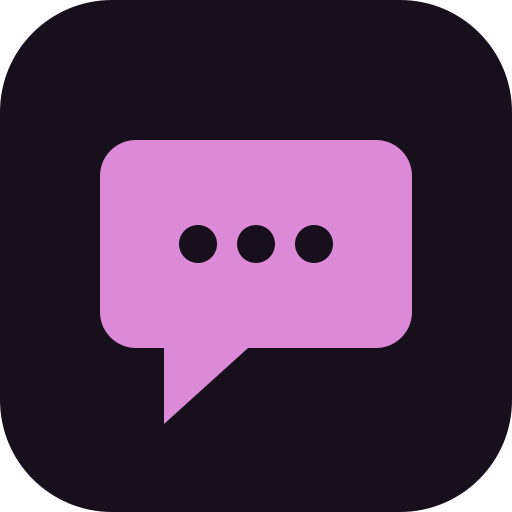
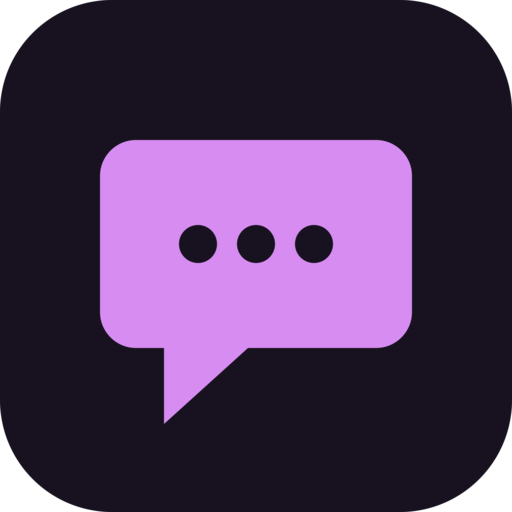
Repaint the built-in themes with the new palette values
Every theme now carries the revised surfaces, text, accents, errors, code
blocks and explicit border colours, so the store table and stylesheet stay
in step and borders no longer depend on per-theme colour mixes. Brand assets
follow the new plum accent.

Generated with Codebuff 🤖

diff --git a/src/index.css b/src/index.css
@@ -221,15 +221,15 @@ html[data-codewrap] .md pre code { white-space: pre-wrap; overflow-wrap: anywher
 html[data-codewrap] .code-lines .code-line > code { flex: 1 1 auto; min-width: 0; white-space: pre-wrap; overflow-wrap: anywhere; }
 
 /* c2..c5 are the syntax colors for strings, numbers, titles and types in each theme */
-[data-t=plum] { color-scheme: dark; --bg:#17101c; --side:#26192d; --surf:#2f2636; --hov:#3d3148; --tx:#f3eaf7; --mu:#a893b4; --ac:#dc8ad8; --acx:#1b1020; --er:#e46a6a; --code:#100b15; --codeh:#2f2040; --c2:#9fe3c5; --c3:#f2b98b; --c4:#8fb9ff; --c5:#c7a6ff }
-[data-t=claude] { color-scheme: dark; --bg:#181817; --side:#242423; --surf:#2e2e2d; --hov:#3a3938; --tx:#ece7db; --mu:#a09891; --ac:#d97757; --acx:#121211; --er:#e46a6a; --code:#111110; --codeh:#121211; --c2:#7ec699; --c3:#f4a58a; --c4:#7cace8; --c5:#e8c47c }
-[data-t=obsidian] { color-scheme: dark; --bg:#0f141c; --side:#171d28; --surf:#222a38; --hov:#2a3648; --tx:#e1e7ed; --mu:#8494a3; --ac:#2dd4bf; --acx:#0b1e1c; --er:#e46a6a; --code:#0a0d12; --codeh:#131a24; --c2:#34d399; --c3:#fbbf24; --c4:#38bdf8; --c5:#c084fc }
-[data-t=graphite] { color-scheme: dark; --bg:#0c0c0c; --side:#181818; --surf:#212121; --hov:#2d2d2d; --tx:#eaeaea; --mu:#909090; --ac:#c0c0c0; --acx:#131313; --er:#e46a6a; --code:#0c0c0c; --codeh:#171717; --c2:#a3e635; --c3:#fb923c; --c4:#facc15; --c5:#e879f9 }
-[data-t=paper] { color-scheme: light; --bg:#f0f0ee; --side:#fbfbf9; --surf:#ffffff; --hov:#e4e4dc; --tx:#1d1d1b; --mu:#6c6c63; --ac:#3b5bdb; --acx:#ffffff; --er:#b63b3b; --code:#e6e5dd; --codeh:#d3d2c6; --c2:#2b8a3e; --c3:#d9480f; --c4:#7048e8; --c5:#0b7285 }
-[data-t=sage] { color-scheme: light; --bg:#e9ecea; --side:#f4f7f5; --surf:#ffffff; --hov:#d6e2db; --tx:#1c2826; --mu:#5a6c69; --ac:#0d9488; --acx:#ffffff; --er:#c0425d; --code:#eaefea; --codeh:#dfe6e0; --c2:#15803d; --c3:#c2410c; --c4:#0284c7; --c5:#7e22ce }
-[data-t=frost] { color-scheme: light; --bg:#edeff1; --side:#f8fafc; --surf:#ffffff; --hov:#e2e8f0; --tx:#0f172a; --mu:#5e6d83; --ac:#2563eb; --acx:#ffffff; --er:#c0425d; --code:#f1f5f9; --codeh:#e2e8f0; --c2:#16a34a; --c3:#ea580c; --c4:#0369a1; --c5:#9333ea }
-[data-t=sunset] { color-scheme: light; --bg:#efeae5; --side:#faf5f0; --surf:#ffffff; --hov:#e4d5c7; --tx:#3b2c24; --mu:#756358; --ac:#ea580c; --acx:#ffffff; --er:#c1453b; --code:#f3eae1; --codeh:#e7dad0; --c2:#3f6212; --c3:#b45309; --c4:#1d4ed8; --c5:#a21caf }
-[data-t=custom] { color-scheme: dark; --bg:#17101c; --side:#231c27; --surf:#2f2636; --hov:#3d3148; --tx:#f3eaf7; --mu:#a893b4; --ac:#dc8ad8; --acx:#1b1020; --er:#f95353; --code:#100b15; --codeh:#2f2040; --c2:#9fe3c5; --c3:#f2b98b; --c4:#8fb9ff; --c5:#c7a6ff }
+[data-t=plum] { color-scheme: dark; --bg:#181220; --side:#211829; --surf:#2b2035; --hov:#382b45; --tx:#f4ecf8; --mu:#b2a0c0; --ac:#d68cf0; --acx:#1a0f22; --er:#f2777a; --code:#120c18; --codeh:#261b30; --bor:#4a3b58; --c2:#9fe3c5; --c3:#f2b98b; --c4:#8fb9ff; --c5:#c7a6ff }
+[data-t=claude] { color-scheme: dark; --bg:#1c1b19; --side:#252320; --surf:#2f2d29; --hov:#3b3833; --tx:#f0ebe0; --mu:#a8a095; --ac:#da7756; --acx:#1a1210; --er:#ef6b6b; --code:#151412; --codeh:#24221f; --bor:#3f3b35; --c2:#7ec699; --c3:#f4a58a; --c4:#7cace8; --c5:#e8c47c }
+[data-t=obsidian] { color-scheme: dark; --bg:#0e131b; --side:#151c27; --surf:#1d2634; --hov:#283347; --tx:#e6ecf3; --mu:#8a9bb0; --ac:#2dd4bf; --acx:#06201d; --er:#f2706f; --code:#0a0e14; --codeh:#172030; --bor:#2c3a4d; --c2:#34d399; --c3:#fbbf24; --c4:#38bdf8; --c5:#c084fc }
+[data-t=graphite] { color-scheme: dark; --bg:#0e0e0f; --side:#161617; --surf:#1f1f21; --hov:#2b2b2e; --tx:#ececee; --mu:#98989f; --ac:#cfd3dc; --acx:#111113; --er:#f06b6b; --code:#09090a; --codeh:#19191b; --bor:#34343a; --c2:#a3e635; --c3:#fb923c; --c4:#facc15; --c5:#e879f9 }
+[data-t=paper] { color-scheme: light; --bg:#f1f0ec; --side:#faf9f6; --surf:#ffffff; --hov:#e6e4dc; --tx:#1c1b18; --mu:#66645b; --ac:#3b5bdb; --acx:#ffffff; --er:#c0392b; --code:#e8e6df; --codeh:#dbd8ce; --bor:#d2cfc5; --c2:#2b8a3e; --c3:#d9480f; --c4:#7048e8; --c5:#0b7285 }
+[data-t=sage] { color-scheme: light; --bg:#e8eeea; --side:#f3f7f4; --surf:#ffffff; --hov:#d8e5dd; --tx:#15231f; --mu:#536863; --ac:#0f766e; --acx:#ffffff; --er:#be3455; --code:#e3ebe5; --codeh:#d3dfd7; --bor:#c3d1ca; --c2:#15803d; --c3:#c2410c; --c4:#0284c7; --c5:#7e22ce }
+[data-t=frost] { color-scheme: light; --bg:#eceff4; --side:#f6f8fb; --surf:#ffffff; --hov:#dfe5ee; --tx:#0f172a; --mu:#56657c; --ac:#2563eb; --acx:#ffffff; --er:#c8333f; --code:#e4e9f1; --codeh:#d4dbe8; --bor:#cbd3e0; --c2:#16a34a; --c3:#ea580c; --c4:#0369a1; --c5:#9333ea }
+[data-t=sunset] { color-scheme: light; --bg:#f4ede6; --side:#fbf7f2; --surf:#ffffff; --hov:#ead9ca; --tx:#35261e; --mu:#6f5b4c; --ac:#c2410c; --acx:#ffffff; --er:#b91c1c; --code:#eee3d8; --codeh:#e2d3c4; --bor:#dccbbb; --c2:#3f6212; --c3:#b45309; --c4:#1d4ed8; --c5:#a21caf }
+[data-t=custom] { color-scheme: dark; --bg:#181220; --side:#221a2b; --surf:#2e2737; --hov:#3c3545; --tx:#f4ecf8; --mu:#a19aa7; --ac:#d68cf0; --acx:#101010; --er:#e26965; --code:#0c0812; --codeh:#130c1c; --bor:#4f4857; --c2:#79d8ca; --c3:#bcd879; --c4:#7990d8; --c5:#bc79d8 }
 /* Pre-paint fallback: a neutral surface, never a branded theme, so a slow boot
  * cannot flash plum before the saved appearance is applied. */
 [data-t=neutral] { color-scheme: dark; --bg:#181818; --side:#242424; --surf:#2a2a2a; --hov:#313131; --tx:#eaeaea; --mu:#a0a0a0; --ac:#c0c0c0; --acx:#131313; --er:#e46a6a; --code:#111111; --codeh:#1a1a1a; --c2:#9fe3c5; --c3:#f2b98b; --c4:#8fb9ff; --c5:#c7a6ff }
@@ -385,15 +385,9 @@ html[data-codewrap] .code-lines .code-line > code { flex: 1 1 auto; min-width: 0
 .composer-shell:focus-within,
 .composer-shell[data-lit] { border-color: var(--bor); }
 
-/* Plum and Obsidian have bright muted tones, which makes the default mix read
-   as a drawn line. Lean further toward each theme's surface colour so the
-   hairline stays a whisper instead of a wire. */
-[data-t=plum] { --bor: color-mix(in srgb, var(--hov) 93%, var(--mu)); --edge: var(--bor); }
-[data-t=obsidian] { --bor: color-mix(in srgb, var(--hov) 93%, var(--mu)); --edge: var(--bor); }
-/* Claude keeps a flatter, warmer hairline: the default mix reads a touch bright
-   against its dark background, so it is pinned to the weight of the composer's
-   own focused outline instead of following --mu. */
-[data-t=claude] { --bor:#34312d; --edge: var(--bor); }
+/* Each built-in palette declares its own --bor above; the mix below is only
+   the fallback for surfaces that do not (neutral boot, generated custom themes
+   carry an explicit border too). */
 /* Only the dialog panel itself gets a hairline. A structural
    `[role="dialog"] > div` rule also framed every first-level div inside
    nested dialogs, which put borders on ordinary modal content. */

diff --git a/src/store.ts b/src/store.ts
@@ -225,14 +225,14 @@ export type ThemeColorKey = typeof THEME_COLOR_KEYS[number]
 export type ThemeColors = Record<ThemeColorKey, string> & { /** Derived border colour, emitted by customThemeColors. */ bor?: string }
 export const THEME_COLOR_LABELS: Record<ThemeColorKey, string> = { bg: 'Main background', side: 'Sidebar', surf: 'Panel surface', hov: 'Hover and selection', tx: 'Main text', mu: 'Muted text', ac: 'Accent', acx: 'Text on accent', er: 'Error', code: 'Code block', codeh: 'Code block header', c2: 'Syntax: strings', c3: 'Syntax: numbers', c4: 'Syntax: titles', c5: 'Syntax: types' }
 export const THEME_COLORS: Record<string, ThemeColors> = {
-  plum: { bg: '#17101c', side: '#26192d', surf: '#2f2636', hov: '#3d3148', tx: '#f3eaf7', mu: '#a893b4', ac: '#dc8ad8', acx: '#1b1020', er: '#e46a6a', code: '#100b15', codeh: '#2f2040', c2: '#9fe3c5', c3: '#f2b98b', c4: '#8fb9ff', c5: '#c7a6ff' },
-  claude: { bg: '#181817', side: '#242423', surf: '#2e2e2d', hov: '#3a3938', tx: '#ece7db', mu: '#a09891', ac: '#d97757', acx: '#121211', er: '#e46a6a', code: '#111110', codeh: '#121211', c2: '#7ec699', c3: '#f4a58a', c4: '#7cace8', c5: '#e8c47c' },
-  obsidian: { bg: '#0f141c', side: '#171d28', surf: '#222a38', hov: '#2a3648', tx: '#e1e7ed', mu: '#8494a3', ac: '#2dd4bf', acx: '#0b1e1c', er: '#e46a6a', code: '#0a0d12', codeh: '#131a24', c2: '#34d399', c3: '#fbbf24', c4: '#38bdf8', c5: '#c084fc' },
-  graphite: { bg: '#0c0c0c', side: '#181818', surf: '#212121', hov: '#2d2d2d', tx: '#eaeaea', mu: '#909090', ac: '#c0c0c0', acx: '#131313', er: '#e46a6a', code: '#0c0c0c', codeh: '#171717', c2: '#a3e635', c3: '#fb923c', c4: '#facc15', c5: '#e879f9' },
-  paper: { bg: '#f0f0ee', side: '#fbfbf9', surf: '#ffffff', hov: '#e4e4dc', tx: '#1d1d1b', mu: '#6c6c63', ac: '#3b5bdb', acx: '#ffffff', er: '#b63b3b', code: '#e6e5dd', codeh: '#d3d2c6', c2: '#2b8a3e', c3: '#d9480f', c4: '#7048e8', c5: '#0b7285' },
-  sage: { bg: '#e9ecea', side: '#f4f7f5', surf: '#ffffff', hov: '#d6e2db', tx: '#1c2826', mu: '#5a6c69', ac: '#0d9488', acx: '#ffffff', er: '#c0425d', code: '#eaefea', codeh: '#dfe6e0', c2: '#15803d', c3: '#c2410c', c4: '#0284c7', c5: '#7e22ce' },
-  frost: { bg: '#edeff1', side: '#f8fafc', surf: '#ffffff', hov: '#e2e8f0', tx: '#0f172a', mu: '#5e6d83', ac: '#2563eb', acx: '#ffffff', er: '#c0425d', code: '#f1f5f9', codeh: '#e2e8f0', c2: '#16a34a', c3: '#ea580c', c4: '#0369a1', c5: '#9333ea' },
-  sunset: { bg: '#efeae5', side: '#faf5f0', surf: '#ffffff', hov: '#e4d5c7', tx: '#3b2c24', mu: '#756358', ac: '#ea580c', acx: '#ffffff', er: '#c1453b', code: '#f3eae1', codeh: '#e7dad0', c2: '#3f6212', c3: '#b45309', c4: '#1d4ed8', c5: '#a21caf' },
+  plum: { bg: '#181220', side: '#211829', surf: '#2b2035', hov: '#382b45', tx: '#f4ecf8', mu: '#b2a0c0', ac: '#d68cf0', acx: '#1a0f22', er: '#f2777a', code: '#120c18', codeh: '#261b30', c2: '#9fe3c5', c3: '#f2b98b', c4: '#8fb9ff', c5: '#c7a6ff', bor: '#4a3b58' },
+  claude: { bg: '#1c1b19', side: '#252320', surf: '#2f2d29', hov: '#3b3833', tx: '#f0ebe0', mu: '#a8a095', ac: '#da7756', acx: '#1a1210', er: '#ef6b6b', code: '#151412', codeh: '#24221f', c2: '#7ec699', c3: '#f4a58a', c4: '#7cace8', c5: '#e8c47c', bor: '#3f3b35' },
+  obsidian: { bg: '#0e131b', side: '#151c27', surf: '#1d2634', hov: '#283347', tx: '#e6ecf3', mu: '#8a9bb0', ac: '#2dd4bf', acx: '#06201d', er: '#f2706f', code: '#0a0e14', codeh: '#172030', c2: '#34d399', c3: '#fbbf24', c4: '#38bdf8', c5: '#c084fc', bor: '#2c3a4d' },
+  graphite: { bg: '#0e0e0f', side: '#161617', surf: '#1f1f21', hov: '#2b2b2e', tx: '#ececee', mu: '#98989f', ac: '#cfd3dc', acx: '#111113', er: '#f06b6b', code: '#09090a', codeh: '#19191b', c2: '#a3e635', c3: '#fb923c', c4: '#facc15', c5: '#e879f9', bor: '#34343a' },
+  paper: { bg: '#f1f0ec', side: '#faf9f6', surf: '#ffffff', hov: '#e6e4dc', tx: '#1c1b18', mu: '#66645b', ac: '#3b5bdb', acx: '#ffffff', er: '#c0392b', code: '#e8e6df', codeh: '#dbd8ce', c2: '#2b8a3e', c3: '#d9480f', c4: '#7048e8', c5: '#0b7285', bor: '#d2cfc5' },
+  sage: { bg: '#e8eeea', side: '#f3f7f4', surf: '#ffffff', hov: '#d8e5dd', tx: '#15231f', mu: '#536863', ac: '#0f766e', acx: '#ffffff', er: '#be3455', code: '#e3ebe5', codeh: '#d3dfd7', c2: '#15803d', c3: '#c2410c', c4: '#0284c7', c5: '#7e22ce', bor: '#c3d1ca' },
+  frost: { bg: '#eceff4', side: '#f6f8fb', surf: '#ffffff', hov: '#dfe5ee', tx: '#0f172a', mu: '#56657c', ac: '#2563eb', acx: '#ffffff', er: '#c8333f', code: '#e4e9f1', codeh: '#d4dbe8', c2: '#16a34a', c3: '#ea580c', c4: '#0369a1', c5: '#9333ea', bor: '#cbd3e0' },
+  sunset: { bg: '#f4ede6', side: '#fbf7f2', surf: '#ffffff', hov: '#ead9ca', tx: '#35261e', mu: '#6f5b4c', ac: '#c2410c', acx: '#ffffff', er: '#b91c1c', code: '#eee3d8', codeh: '#e2d3c4', c2: '#3f6212', c3: '#b45309', c4: '#1d4ed8', c5: '#a21caf', bor: '#dccbbb' },
 }
 /** A fresh custom palette starts from a built-in theme's three primary colours. */
 export const defaultCustomTheme = (base: BaseTheme): CustomTheme => {

diff --git a/src/theme.ts b/src/theme.ts
@@ -196,9 +196,9 @@ const uniqueColors = (colors: string[]): string[] => {
  *  accent needs to stand off the canvas, foreground text needs to be readable
  *  on it, and a background needs to preserve the current text contrast. */
 export function colorSuggestions(opts: { role: ColorRole; accent: string; text: string; background: string }): string[] {
-  const accent = normalizeHex(opts.accent, '#dc8ad8')
-  const text = normalizeHex(opts.text, '#f3eaf7')
-  const background = normalizeHex(opts.background, '#17101c')
+  const accent = normalizeHex(opts.accent, '#d68cf0')
+  const text = normalizeHex(opts.text, '#f4ecf8')
+  const background = normalizeHex(opts.background, '#181220')
   const hue = hexToHsl(accent).h
   const backgroundLum = relativeLuminance(background)
   const accentLum = relativeLuminance(accent)
@@ -284,9 +284,9 @@ export type CustomPaletteOptions = {
  *  than overshooting it, which keeps the hierarchy intact at every position
  *  and stops surfaces from saturating at white or black. */
 export function customPalette(opts: CustomPaletteOptions): Record<CustomPaletteKey, string> & { bor: string } {
-  const accent = normalizeHex(opts.accent, '#dc8ad8')
-  const text = normalizeHex(opts.text, '#f3eaf7')
-  const background = normalizeHex(opts.background, '#17101c')
+  const accent = normalizeHex(opts.accent, '#d68cf0')
+  const text = normalizeHex(opts.text, '#f4ecf8')
+  const background = normalizeHex(opts.background, '#181220')
   const requested = clamp(Number.isFinite(opts.contrast) ? opts.contrast : 50, 0, 100) / 100
   // OKLCH lightness is the axis every surface moves along: a fixed step is the
   // same perceived change whatever the hue, unlike an RGB or HSL lift.

diff --git a/index.html b/index.html
@@ -23,8 +23,8 @@
         const lightThemes = ['paper', 'sage', 'frost', 'sunset']
         const legacyThemes = { nord: 'claude', amoled: 'obsidian', sepia: 'sunset', porcelain: 'frost', sand: 'sunset' }
         const themeBackgrounds = {
-          plum: '#17101c', claude: '#181817', obsidian: '#0f141c', graphite: '#0c0c0c',
-          paper: '#f0f0ee', sage: '#e9ecea', frost: '#edeff1', sunset: '#efeae5',
+          plum: '#181220', claude: '#1c1b19', obsidian: '#0e131b', graphite: '#0e0e0f',
+          paper: '#f1f0ec', sage: '#e8eeea', frost: '#eceff4', sunset: '#f4ede6',
         }
         const paletteKeys = ['bg', 'side', 'surf', 'hov', 'tx', 'mu', 'ac', 'acx', 'er', 'code', 'codeh', 'c2', 'c3', 'c4', 'c5']
         const isHex = (value) => typeof value === 'string' && /^#[0-9a-f]{6}$/i.test(value)

diff --git a/src/components/ColorPicker.tsx b/src/components/ColorPicker.tsx
@@ -4,7 +4,7 @@ import { colorSuggestions, hexToHsl, hslToHex, normalizeHex, type ColorRole } fr
 import { cx, useEscapeClose } from './ui'
 
 const clamp = (n: number, min: number, max: number) => Math.min(max, Math.max(min, n))
-const FALLBACK_PRESETS = ['#d97757', '#dc8ad8', '#3b5bdb', '#0d9488', '#16a34a', '#eab308', '#ef4444', '#f8fafc', '#111827']
+const FALLBACK_PRESETS = ['#da7756', '#d68cf0', '#3b5bdb', '#0f766e', '#16a34a', '#eab308', '#ef4444', '#f8fafc', '#111827']
 
 /** An in-app HSL colour picker. Native `<input type="color">` looks different
  *  on every platform and cannot show a labelled swatch, so the theme editor
